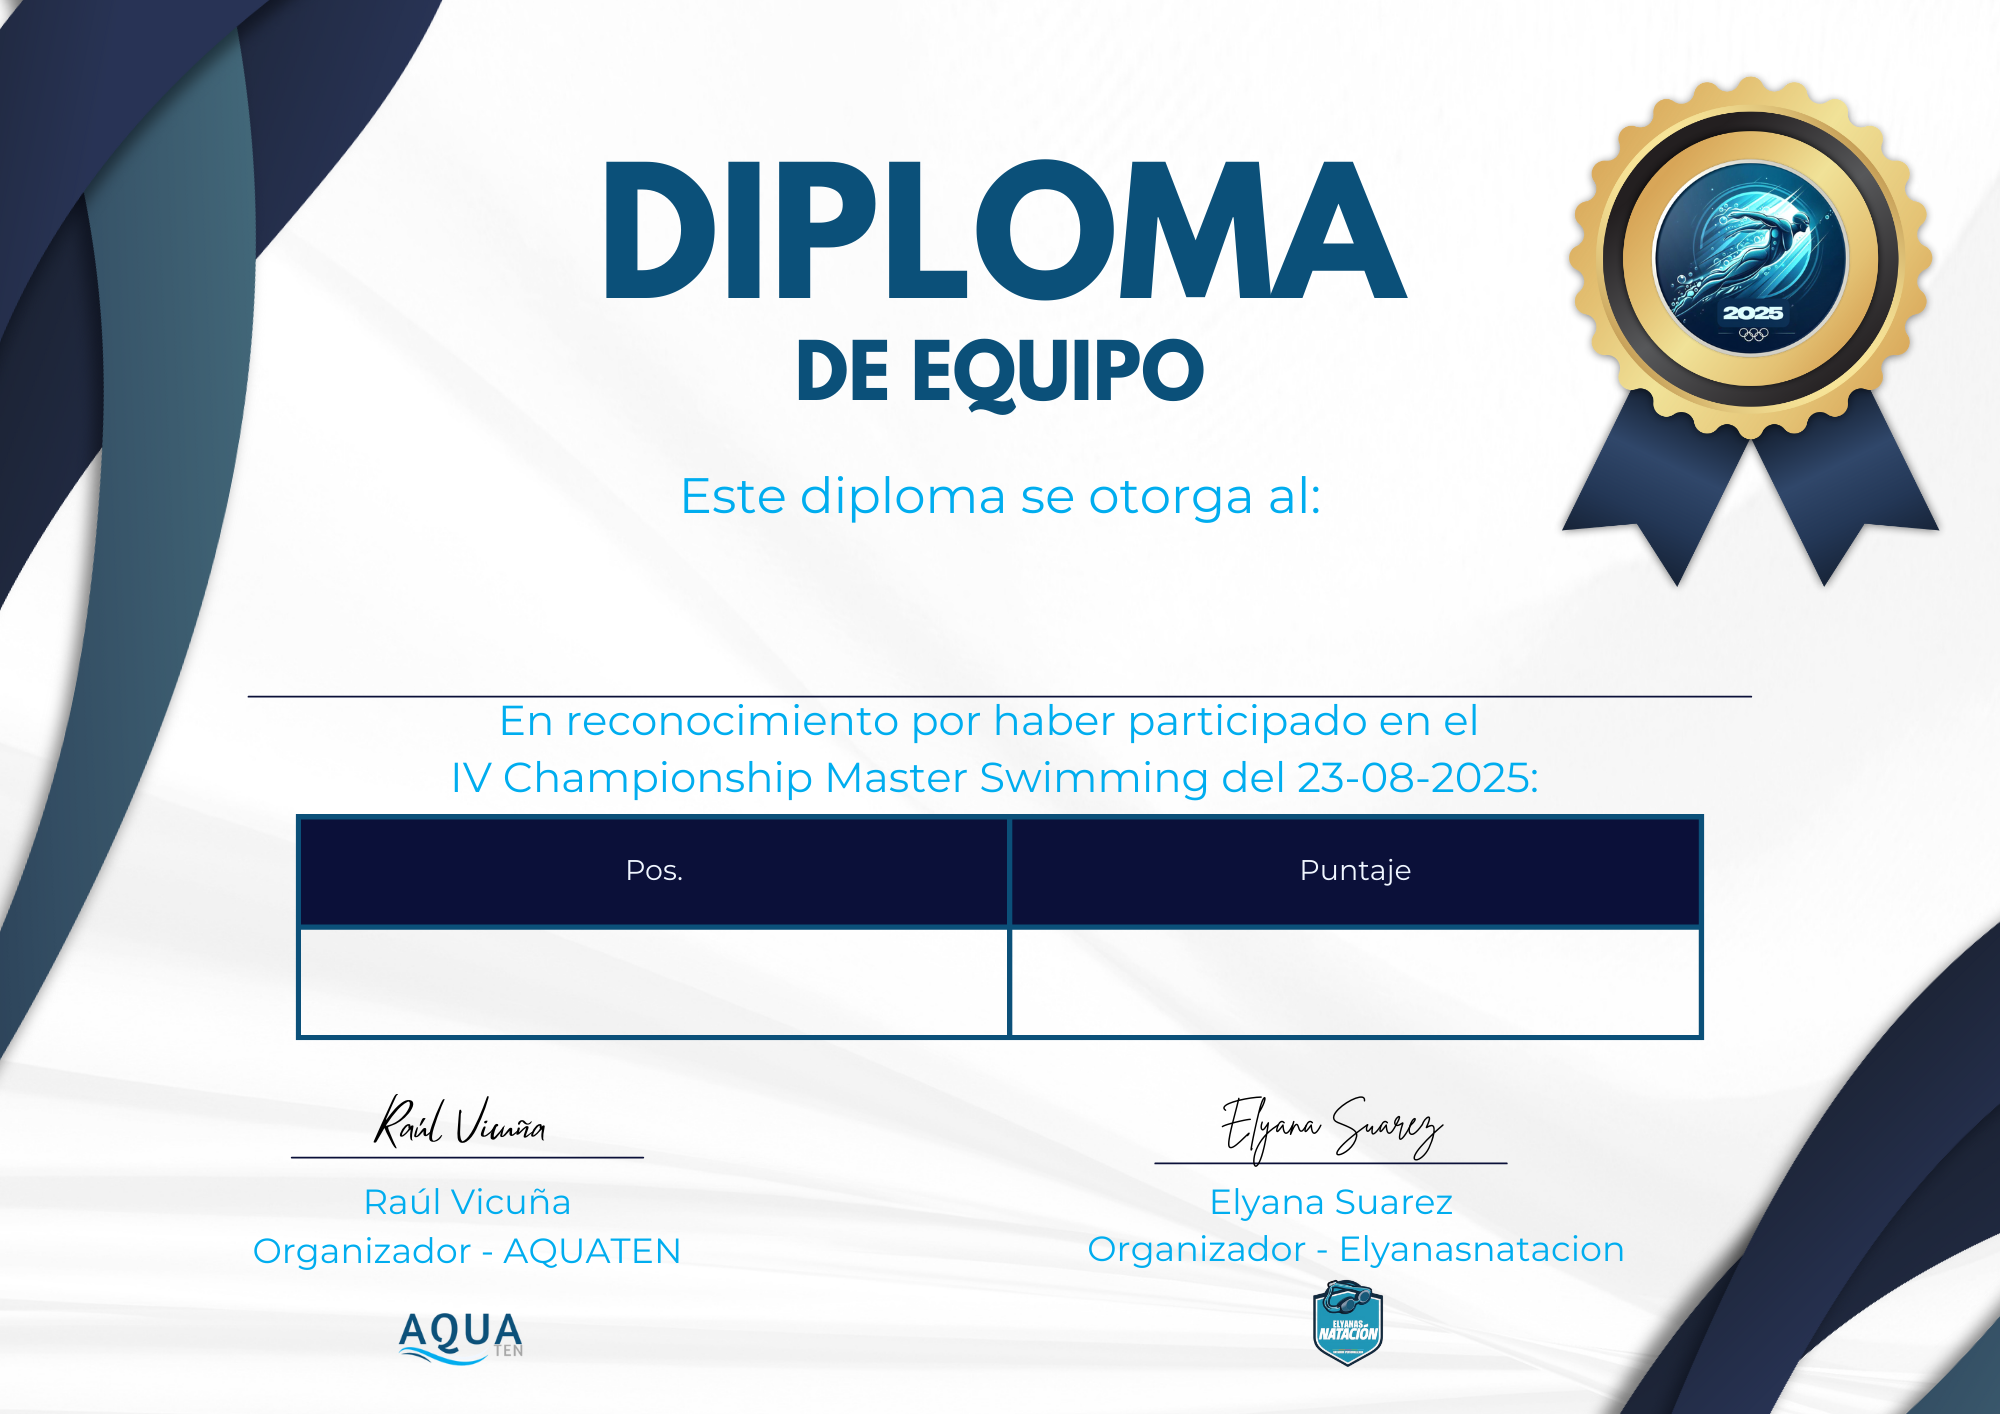
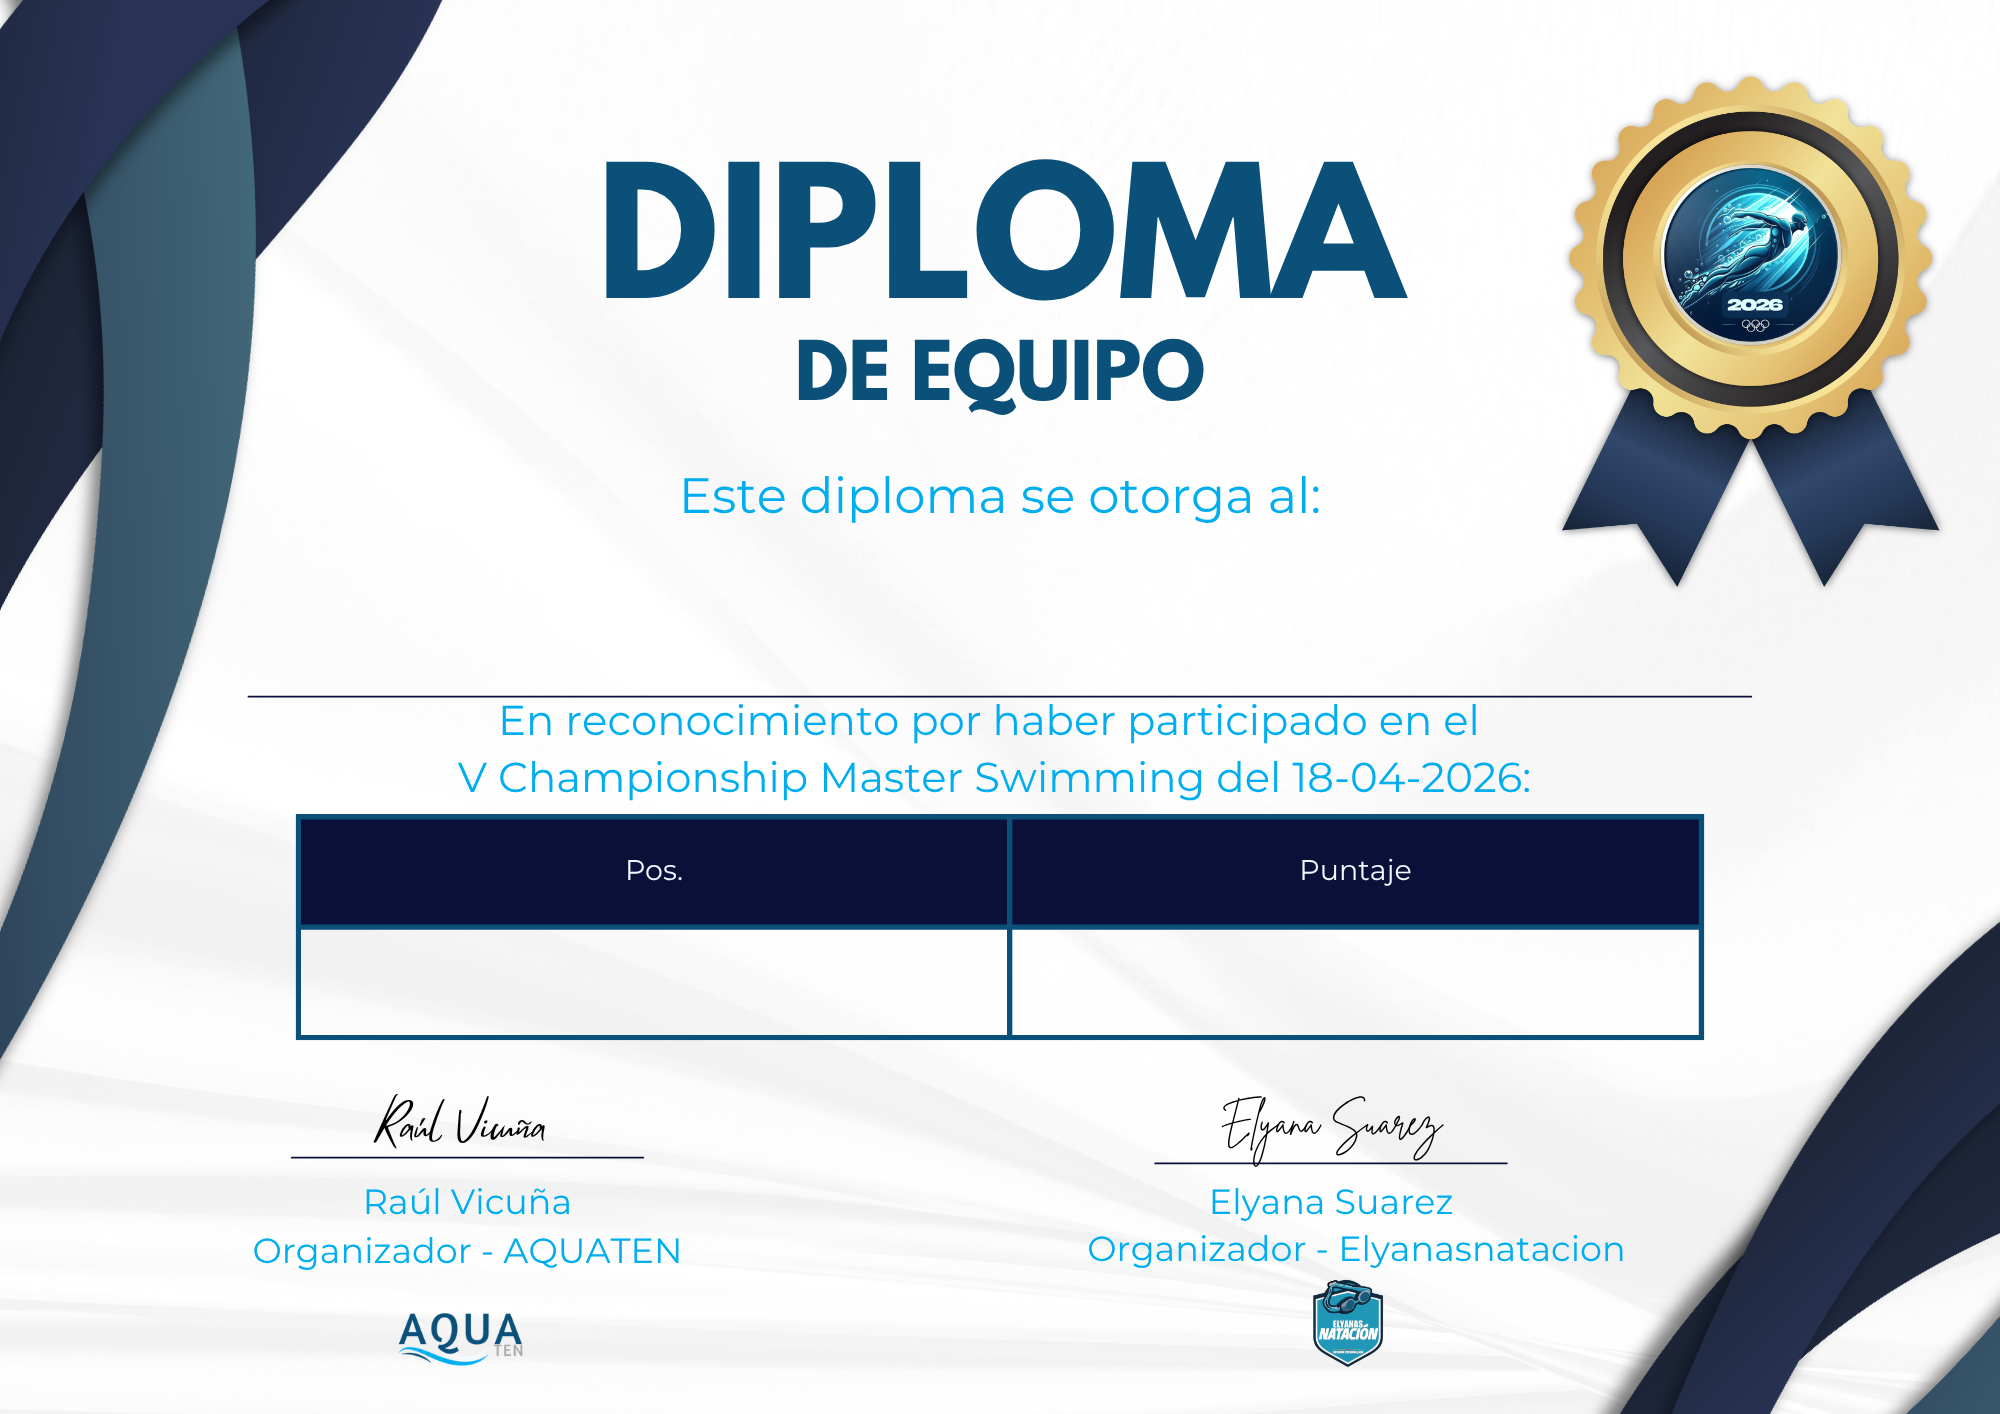
actualice los archivos para 2026

Changed region(s): [[0.217, 0.529, 0.775, 0.5601], [0.806, 0.0934, 0.93, 0.2489]]

diff --git a/index.html b/index.html
@@ -65,6 +65,7 @@
           "@type": "ProfessionalService",
           "name": "Top4Race",
           "url": "https://top4race.netlify.app/",
+          "image": "https://vchampionship.netlify.app/img/top4race.jpg",
           "description": "Sistema de gestión de eventos y medición deportiva con chips electrónicos en Córdoba: aguas abiertas, atletismo y patinaje.",
           "areaServed": {
             "@type": "AdministrativeArea",
@@ -692,12 +693,13 @@
             border-color: #f0f6ff;
         }
 
-        /* Top4Race — subsección destacada (SEO + patrocinio) */
+        /* Top4Race — franja publicitaria + listado breve */
         .top4race-spotlight {
             margin-top: 56px;
-            padding: 36px 40px 40px;
+            padding: 0;
+            overflow: hidden;
             border-radius: var(--border-radius-large);
-            background: linear-gradient(135deg, #f0f7ff 0%, #ffffff 55%, #e8f4fc 100%);
+            background: linear-gradient(180deg, #f5faff 0%, #ffffff 45%);
             border: 2px solid #c8e6f5;
             box-shadow: var(--box-shadow);
             max-width: 900px;
@@ -705,53 +707,89 @@
             margin-right: auto;
         }
 
-        .top4race-spotlight-header {
+        .top4race-ad-banner {
             display: flex;
             flex-wrap: wrap;
-            align-items: flex-start;
-            gap: 16px 24px;
-            margin-bottom: 18px;
-        }
-
-        .top4race-spotlight-badge {
-            display: inline-block;
-            padding: 6px 14px;
-            border-radius: 999px;
-            font-size: 0.75rem;
-            font-weight: 700;
-            letter-spacing: 0.06em;
-            text-transform: uppercase;
+            align-items: center;
+            justify-content: center;
+            gap: 14px 22px;
+            padding: 18px 20px;
+            background: linear-gradient(90deg, #070b2e 0%, #0b1039 35%, #0b5079 70%, #00ADEF 100%);
             color: var(--text-white);
-            background: var(--background-gradient);
+            text-align: center;
         }
 
-        .top4race-spotlight-title {
-            font-size: 1.55rem;
-            color: var(--primary-color);
-            margin: 0;
-            font-weight: 700;
-            line-height: 1.25;
-            flex: 1;
-            min-width: 220px;
+        .top4race-ad-logo-link {
+            display: flex;
+            align-items: center;
+            justify-content: center;
+            padding: 8px 14px;
+            background: rgba(255, 255, 255, 0.14);
+            border-radius: 12px;
+            border: 1px solid rgba(255, 255, 255, 0.28);
+            line-height: 0;
+            transition: var(--transition);
         }
 
-        .top4race-spotlight-lead {
-            color: #3d4a63;
-            font-size: 1.05rem;
-            line-height: 1.65;
-            margin: 0 0 20px;
+        .top4race-ad-logo-link:hover {
+            background: rgba(255, 255, 255, 0.22);
+            transform: scale(1.02);
+        }
+
+        .top4race-ad-logo {
+            max-height: 46px;
+            max-width: 180px;
+            width: auto;
+            height: auto;
+            object-fit: contain;
+        }
+
+        .top4race-ad-text-col {
+            display: flex;
+            flex-direction: column;
+            align-items: center;
+            gap: 4px;
+        }
+
+        .top4race-ad-tag {
+            font-size: 0.62rem;
+            font-weight: 800;
+            letter-spacing: 0.18em;
+            text-transform: uppercase;
+            padding: 5px 12px;
+            border-radius: 4px;
+            border: 1px solid rgba(255, 255, 255, 0.45);
+            background: rgba(0, 0, 0, 0.15);
+        }
+
+        .top4race-ad-main {
+            font-size: clamp(1.05rem, 2.8vw, 1.45rem);
+            font-weight: 800;
+            letter-spacing: 0.03em;
+            text-transform: uppercase;
+        }
+
+        .top4race-ad-brand {
+            font-size: 0.95rem;
+            font-weight: 600;
+            opacity: 0.95;
+        }
+
+        .top4race-spotlight-body {
+            padding: 28px 40px 34px;
         }
 
         .top4race-spotlight-list-title {
-            font-size: 0.95rem;
+            font-size: 0.98rem;
             font-weight: 700;
             color: var(--primary-color);
-            margin: 0 0 10px;
+            margin: 0 0 14px;
+            line-height: 1.4;
         }
 
         .top4race-spotlight-list {
             list-style: none;
-            margin: 0 0 22px;
+            margin: 0;
             padding: 0;
             display: grid;
             gap: 10px;
@@ -780,41 +818,12 @@
             font-weight: 800;
         }
 
-        .top4race-spotlight-cta {
-            display: inline-flex;
-            align-items: center;
-            gap: 10px;
-            padding: 14px 26px;
-            border-radius: 999px;
-            font-weight: 600;
-            font-size: 1rem;
-            text-decoration: none;
-            color: var(--text-white);
-            background: var(--background-gradient);
-            transition: var(--transition);
-            box-shadow: 0 4px 18px rgba(11, 16, 57, 0.2);
-        }
-
-        .top4race-spotlight-cta:hover {
-            transform: translateY(-2px);
-            box-shadow: 0 8px 24px rgba(11, 16, 57, 0.25);
-            color: var(--text-white);
-        }
-
-        .top4race-spotlight-note {
-            margin: 14px 0 0;
-            font-size: 0.88rem;
-            color: var(--text-gray);
-            line-height: 1.5;
-        }
-
         @media (max-width: 768px) {
             .top4race-spotlight {
-                padding: 28px 22px 32px;
                 margin-top: 40px;
             }
-            .top4race-spotlight-title {
-                font-size: 1.3rem;
+            .top4race-spotlight-body {
+                padding: 22px 22px 28px;
             }
         }
 
@@ -3218,9 +3227,9 @@
                     <div class="sponsor-logo"><img src="img/dr-innova.png" alt="Logo DR-Innova"></div>
                     <div class="sponsor-name">DR-Innova</div>
                 </a>
-                <a href="https://top4race.netlify.app/" target="_blank" rel="noopener noreferrer" class="sponsor-card">
-                    <div class="sponsor-logo sponsor-logo--pending" aria-label="Espacio para logo de Top4Race">
-                        <span class="sponsor-logo-slot-text">Logo Top4Race</span>
+                <a href="https://top4race.netlify.app/" target="_blank" rel="sponsored noopener noreferrer" class="sponsor-card">
+                    <div class="sponsor-logo">
+                        <img src="img/top4race.jpg" alt="Logo Top4Race · AquaTEN" width="180" height="80" loading="lazy">
                     </div>
                     <div class="sponsor-name">Top4Race · AquaTEN</div>
                 </a>
@@ -3233,21 +3242,27 @@
             </div>
 
             <article id="top4race" class="top4race-spotlight" itemscope itemtype="https://schema.org/ProfessionalService">
-                <div class="top4race-spotlight-header">
-                    <span class="top4race-spotlight-badge">Aliado tecnológico</span>
-                    <h3 class="top4race-spotlight-title" itemprop="name">Top4Race — medición deportiva con chips en Córdoba</h3>
+                <meta itemprop="name" content="Top4Race">
+                <link itemprop="url" href="https://top4race.netlify.app/">
+                <meta itemprop="description" content="Disciplinas con solución de chips y medición profesional: aguas abiertas, atletismo, patinaje.">
+                <div class="top4race-spotlight-body">
+                    <p class="top4race-spotlight-list-title">Disciplinas con solución de chips y medición profesional</p>
+                    <ul class="top4race-spotlight-list" aria-label="Disciplinas con chips Top4Race">
+                        <li>Aguas abiertas</li>
+                        <li>Atletismo</li>
+                        <li>Patinaje</li>
+                    </ul>
                 </div>
-                <p class="top4race-spotlight-lead" itemprop="description">
-                    <strong>Top4Race</strong>, del <strong>Club Deportivo AquaTEN</strong>, es el sistema digital de gestión de eventos con <strong>cronometraje electrónico por chips</strong> para competencias en la región de <strong>Córdoba</strong>: precisión en tiempo real, mesa técnica y publicación de resultados en línea para organizadores y atletas.
-                </p>
-                <p class="top4race-spotlight-list-title">Disciplinas con solución de chips y medición profesional</p>
-                <ul class="top4race-spotlight-list" aria-label="Disciplinas Top4Race en Córdoba">
-                    <li>Aguas abiertas</li>
-                    <li>Atletismo</li>
-                    <li>Patinaje</li>
-                </ul>
-                <a href="https://top4race.netlify.app/" class="top4race-spotlight-cta" target="_blank" rel="sponsored noopener noreferrer" itemprop="url">Visitar sitio Top4Race</a>
-                <p class="top4race-spotlight-note">Ideal para federaciones, clubes y comités que buscan tiempos oficiales confiables en Montería y el departamento de Córdoba.</p>
+                <div class="top4race-ad-banner" role="complementary" aria-label="Publicidad: aliado tecnológico Top4Race">
+                    <span class="top4race-ad-tag">Publicidad</span>
+                    <a href="https://top4race.netlify.app/" class="top4race-ad-logo-link" target="_blank" rel="sponsored noopener noreferrer" aria-label="Top4Race — abrir sitio web">
+                        <img src="img/top4race.jpg" alt="Logo Top4Race" class="top4race-ad-logo" width="180" height="64" loading="lazy">
+                    </a>
+                    <div class="top4race-ad-text-col">
+                        <span class="top4race-ad-main">Aliado tecnológico</span>
+                        <span class="top4race-ad-brand">Top4Race</span>
+                    </div>
+                </div>
             </article>
             
             <!-- Thank You Message Section -->
